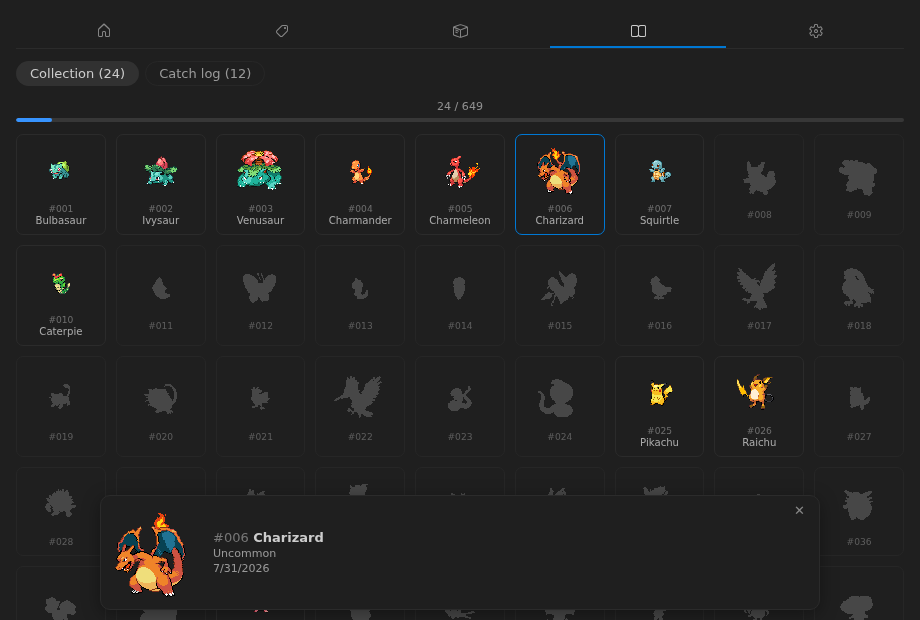
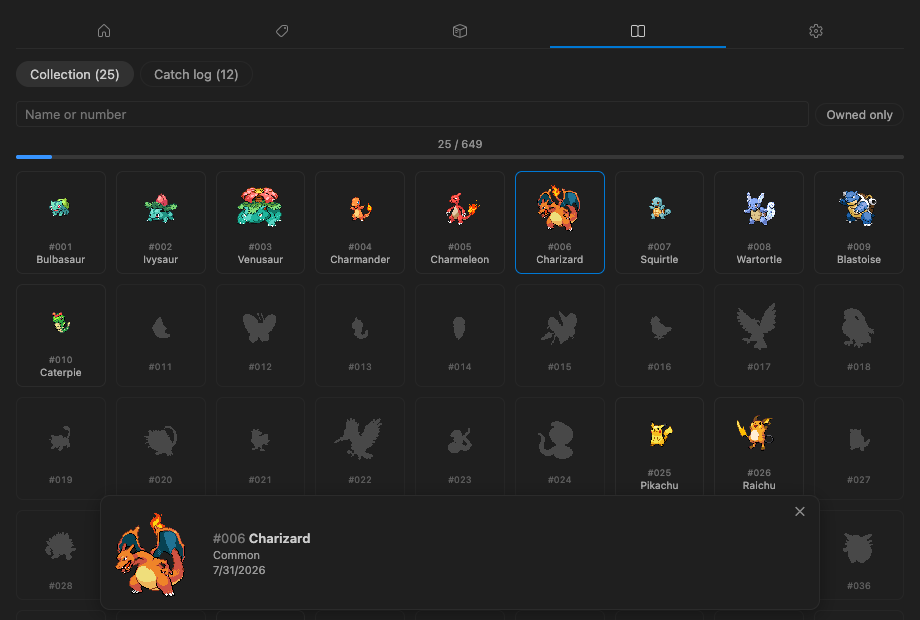
📝 Regenerate the README captures, and make regenerating them a command
They were showing copy, prices and a shop layout the extension had stopped sending, for the
same reason code drifts when nothing checks it: refreshing them was undocumented manual work.

The still captures had no tool at all — they were cropped by hand — and the GIF recorder could
not run on macOS, because it looked for Chromium only under Linux layout names in a Playwright
cache that does not exist there by default. Both are commands now, `npm run readme:shots` and
`npm run readme:hero`, sharing a browser locator that lives in its own module: importing
`record.mjs` to borrow that function starts a recording, which is a trap worth removing.

All five images come from the current build. Three alt texts had stopped describing their own
picture and are corrected.

diff --git a/README.md b/README.md
@@ -55,14 +55,14 @@ month's, official rate-limit windows as live bars, and a per-CLI breakdown with 
 
 <div align="center">
 
-|                                                                          Raise                                                                           |                                                                       Shop                                                                        |                                                Your trainer                                                 |
-| :------------------------------------------------------------------------------------------------------------------------------------------------------: | :-----------------------------------------------------------------------------------------------------------------------------------------------: | :---------------------------------------------------------------------------------------------------------: |
-| <img src="media/readme/home.png" width="260" alt="Home: your trainer with an Eevee companion, evolution progress, usage totals and official limit bars"> | <img src="media/readme/shop.png" width="260" alt="The shop: pokéballs, Rare Candy, Mint and Shiny Charm, priced in the tokens you already spent"> | <img src="media/readme/settings.png" width="260" alt="Settings: pick your trainer from 28 classic sprites"> |
+|                                                                          Raise                                                                           |                                                                                     Shop                                                                                     |                                                                      Your trainer                                                                       |
+| :------------------------------------------------------------------------------------------------------------------------------------------------------: | :--------------------------------------------------------------------------------------------------------------------------------------------------------------------------: | :-----------------------------------------------------------------------------------------------------------------------------------------------------: |
+| <img src="media/readme/home.png" width="260" alt="Home: your trainer with an Eevee companion, evolution progress, usage totals and official limit bars"> | <img src="media/readme/shop.png" width="260" alt="The shop: Poké, Great, Ultra and Master Balls, singly or in ten-packs at 10% off, priced in the tokens you already spent"> | <img src="media/readme/settings.png" width="260" alt="Settings: language, how often usage is re-read, and your trainer picked from 28 classic sprites"> |
 
 </div>
 
 <div align="center">
-<img src="media/readme/dex.png" width="820" alt="The Pokédex: 24 of 649 species collected, shiny entries framed, the one being raised marked">
+<img src="media/readme/dex.png" width="820" alt="The Pokédex: 25 of 649 species collected, searchable by name or number, shiny entries framed, the one being raised marked">
 
 <em>The Pokédex tracks every species you raise or catch — 649 to collect.</em>
 

diff --git a/CONTRIBUTING.md b/CONTRIBUTING.md
@@ -37,6 +37,20 @@ To try your change, press <kbd>F5</kbd> to launch an Extension Development Host.
 `TOKENDEX_STATE_DIR` to a throwaway directory first if you are touching game state: the
 development scenarios behind the `tokendex.dev` command mutate the real save.
 
+For UI work, `npm run bench` serves the real webview bundle against fixture states in a plain
+browser — every surface, theme and width, rebuilt at esbuild speed. If a change alters what the
+README shows, regenerate its captures from that same bundle rather than cropping a screenshot
+by hand:
+
+```bash
+npm run readme:shots    # the four stills; pass a name to redo one (… shots.mjs dex)
+npm run readme:hero     # the capture GIF
+```
+
+Both drive Chrome through `playwright-core`, which ships no browser of its own: they use a
+Playwright-managed Chromium when there is one (`npx playwright install chromium ffmpeg`) and
+fall back to whatever Chrome is installed. The GIF step also needs `ffmpeg` on `PATH`.
+
 ## Contribution workflow
 
 1. Create a feature branch off `main` (fork the repo if you don't have write access).

diff --git a/CHANGELOG.md b/CHANGELOG.md
@@ -113,6 +113,11 @@
 - Settings groups the save buttons under their own heading instead of leaving them flush
   against the trainer roster, and the egg screen's two progress bars are one component rather
   than two shapes for two meanings.
+- The README's captures are regenerated from the current build, and regenerating them is now a
+  command rather than folklore: `npm run readme:shots` and `npm run readme:hero`. The shipped
+  images were showing copy, prices and a shop layout the extension had stopped sending — the
+  still captures had no tool at all, and the GIF recorder looked for Chromium only under Linux
+  paths, so it could not run on the machine that ships them.
 - `npm run test:e2e` runs again. VS Code 1.110 renamed the macOS binary from
   `Contents/MacOS/Electron` to `Code`, which `@vscode/test-electron` 2.x could not find
   (`spawn … ENOENT`), so the end-to-end gate had been silently unrunnable on macOS with
